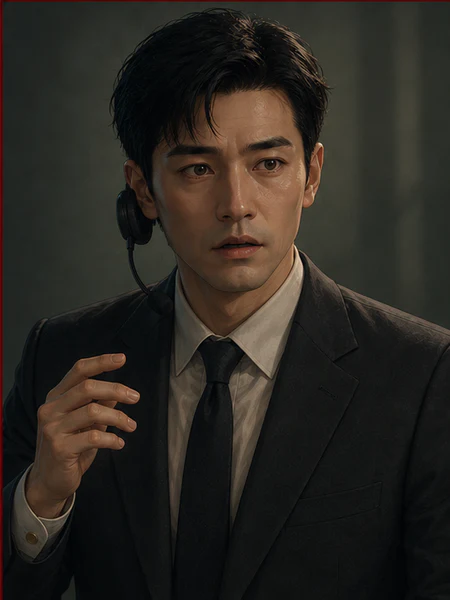
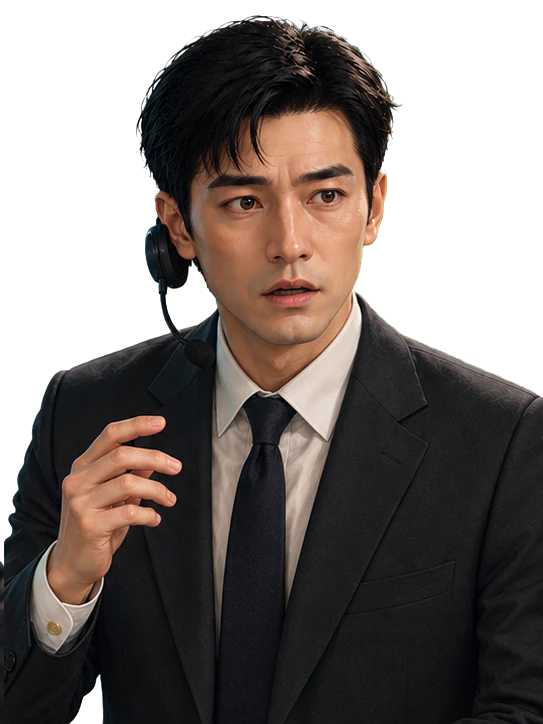
Add transparent cast and cinematic ending PVs

diff --git a/src/components/RevelationPanel.tsx b/src/components/RevelationPanel.tsx
@@ -1,4 +1,6 @@
-import { ChevronRight, RotateCcw, X } from 'lucide-react'
+import { ChevronRight, Eye, RotateCcw, ScanSearch, X } from 'lucide-react'
+import { useEffect, useState } from 'react'
+import { createPortal } from 'react-dom'
 import type { EndingId, PlayerMemory } from '../game/types'
 
 interface RevelationPanelProps {
@@ -11,108 +13,105 @@ interface RevelationPanelProps {
   onOpenEvidence: () => void
   onChooseEnding: (endingId: EndingId) => void
   onReset: () => void
+  renderEndingPv?: boolean
 }
 
-const ENDINGS: Record<EndingId, { label: string; detail: string; title: string; result: string }> = {
+const ENDING_IMAGES: Record<EndingId, string> = {
+  preserve: new URL('../../art/runtime/endings/preserve.webp', import.meta.url).href,
+  answer: new URL('../../art/runtime/endings/answer.webp', import.meta.url).href,
+  erase: new URL('../../art/runtime/endings/erase.webp', import.meta.url).href,
+  broadcast: new URL('../../art/runtime/endings/broadcast.webp', import.meta.url).href,
+  follow: new URL('../../art/runtime/endings/follow.webp', import.meta.url).href,
+}
+
+const ENDINGS: Record<EndingId, { label: string; detail: string; title: string; result: string; focus: string }> = {
   preserve: {
-    label: '复制并封存母带',
-    detail: '让至少两个人同时记住苏晚。',
-    title: '结局 · 守片人',
-    result: '你把第九机位复制到一卷不联网的磁带。第二天，白礁酒店的全部监控都恢复正常——只有你的副本里，苏晚仍在每个整点回头。',
+    label: '复制并封存母带', detail: '让至少两个人同时记住苏晚。', title: '结局 · 守片人', focus: '检查唯一亮着的监视器',
+    result: '你把第九机位复制到一卷不联网的磁带。第二天，所有监控恢复正常——只有你的副本里，苏晚仍在每个整点回头。',
   },
   answer: {
-    label: '回应未知信号',
-    detail: '告诉她：我还记得你。',
-    title: '结局 · 第十秒',
-    result: '你对着没有麦克风的机位说出她的名字。时间码第一次越过 23:47:10，画面中的空椅上多了一个背对镜头的人。那个人穿着你的外套。',
+    label: '回应未知信号', detail: '告诉她：我还记得你。', title: '结局 · 第十秒', focus: '确认空椅上的人',
+    result: '时间码第一次越过 23:47:10。画面中的空椅上多了一个背对镜头的人——那个人穿着你的外套。',
   },
   erase: {
-    label: '删除自己的记录',
-    detail: '切断第九机位最后的见证人。',
-    title: '结局 · 空机位',
-    result: '文件删除成功。八台摄影机里苏晚重新出现，婚礼照常继续；但所有合影都少了一位摄影师。系统把你的名字标记为“从未到场”。',
+    label: '删除自己的记录', detail: '切断第九机位最后的见证人。', title: '结局 · 空机位', focus: '按下无人值守的快门',
+    result: '苏晚重新出现在合影里；但相机后再也没有摄影师。系统把你的名字标记为“从未到场”。',
   },
   broadcast: {
-    label: '接回婚礼直播',
-    detail: '把三组矛盾同时投向所有来宾。',
-    title: '隐藏结局 · 两场婚礼',
-    result: '你把第九路信号切回宴会厅。凌晨零点，所有宾客同时记起两场互不相同的婚礼：一场苏晚失踪，一场路野从未出生。白礁酒店再也无法只删除一个见证人。',
+    label: '接回婚礼直播', detail: '把三组矛盾同时投向所有来宾。', title: '隐藏结局 · 两场婚礼', focus: '让两场婚礼同时显影',
+    result: '所有宾客同时记起两场互不相同的婚礼。白礁酒店再也无法只删除一个见证人。',
   },
   follow: {
-    label: '穿过反射里的门',
-    detail: '沿着七岁时留下的脚印进入零层。',
-    title: '隐藏结局 · 归还姓名',
-    result: '你没有回应苏晚，而是叫出她十二年前登记时使用的名字。镜中门缝打开，七岁的你站在零层尽头。苏晚把黑卡交还给他，然后第一次从第九机位之外走进清晨。',
+    label: '穿过反射里的门', detail: '沿七岁时留下的脚印进入零层。', title: '隐藏结局 · 归还姓名', focus: '接过十二年前的黑卡',
+    result: '镜中门缝打开。苏晚把黑卡交还给七岁的你，然后第一次从第九机位之外走进清晨。',
   },
 }
 
-export function RevelationPanel({
-  open,
-  mistakes,
-  linkCount,
-  memory,
-  ending,
-  onDismiss,
-  onOpenEvidence,
-  onChooseEnding,
-  onReset,
-}: RevelationPanelProps) {
+export function RevelationPanel({ open, mistakes, linkCount, memory, ending, onDismiss, onOpenEvidence, onChooseEnding, onReset, renderEndingPv = false }: RevelationPanelProps) {
+  const [wide, setWide] = useState(false)
+  const [examined, setExamined] = useState(false)
+  useEffect(() => { setWide(false); setExamined(false) }, [ending])
+
   const rating = mistakes === 0 && linkCount === 3 ? 'S' : mistakes <= 3 ? 'A' : mistakes <= 7 ? 'B' : 'C'
   const memoryLine = memory?.approach === 'intervene'
-    ? '你当时没能推开那扇门，因为门的另一侧比你慢了十二年。'
-    : '你当时选择继续拍摄，所以第九机位终于也看见了你。'
+    ? '你没能推开那扇门，因为门的另一侧比你慢了十二年。'
+    : '你选择继续拍摄，所以第九机位终于也看见了你。'
   const endingLock = (id: EndingId) => {
     if (id === 'broadcast' && (linkCount < 3 || mistakes > 2)) return '需要解封 3/3 档案，且误判不超过 2 次'
     if (id === 'follow' && (memory?.identity !== 'remember' || memory.focus !== 'steady')) return '需要相信旧记忆，并在服务门前稳住镜头'
     return null
   }
-  if (!open) {
-    return (
-      <button className="revelation-reopen" type="button" onClick={onDismiss}>
-        查看第九机位解读
-      </button>
-    )
-  }
+  if (!open) return <button className="revelation-reopen" type="button" onClick={onDismiss}>查看第九机位解读</button>
 
-  return (
-    <aside className="revelation-panel" aria-label="第九机位解读">
-      <button className="revelation-close" type="button" onClick={onDismiss} aria-label="收起解读">
-        <X size={15} />
-      </button>
-      <span>回放源异常 · 十二年前 · 档案 {linkCount}/3 · 观察评级 {rating}</span>
-      <strong>你解开的不是一段缺失监控，<br />而是一层被覆盖的时间。</strong>
-      <p>
-        同一间宴会厅。所有人举手通过了一项未出现在婚礼档案里的表决；
-        中央留给证人的椅子是空的。
-      </p>
-      <blockquote>苏晚不是今晚才第一次“消失”。</blockquote>
-      <p className="revelation-memory">{memoryLine}</p>
-      {linkCount < 3 && <p className="revelation-missing">仍有一页白礁档案未解封。完整联结全部五条观察可获得 S 评级。</p>}
-      {!ending ? (
-        <section className="ending-decision" aria-labelledby="ending-question">
-          <span>FINAL CUT / 最后的选择</span>
-          <strong id="ending-question">你要如何处理第九机位？</strong>
-          <div>
-            {(Object.keys(ENDINGS) as EndingId[]).map((id) => {
-              const lock = endingLock(id)
-              return (
-                <button type="button" key={id} onClick={() => onChooseEnding(id)} disabled={Boolean(lock)}>
-                  <b>{ENDINGS[id].label}</b><small>{lock ?? ENDINGS[id].detail}</small>
-                </button>
-              )
-            })}
-          </div>
-        </section>
-      ) : (
-        <section className="ending-resolution" aria-live="polite">
-          <span>{ENDINGS[ending].title}</span>
-          <p>{ENDINGS[ending].result}</p>
+  if (ending) {
+    if (!renderEndingPv) return null
+    const endingData = ENDINGS[ending]
+    return createPortal(
+      <section className={`ending-pv ending-${ending}${wide ? ' is-wide' : ''}${examined ? ' is-examined' : ''}`} aria-live="polite">
+        <figure>
+          <img src={ENDING_IMAGES[ending]} alt={endingData.title} width="1918" height="820" />
+          <div className="ending-pv-shutter" aria-hidden="true" />
+        </figure>
+        {!wide ? (
+          <button className="ending-pv-expand" type="button" onClick={() => setWide(true)}>
+            <Eye size={17} /><span>拉开镜头</span><i aria-hidden="true" />
+          </button>
+        ) : (
+          <button className="ending-pv-hotspot" type="button" onClick={() => setExamined(true)} aria-label={endingData.focus}>
+            <ScanSearch size={22} /><span>{endingData.focus}</span>
+          </button>
+        )}
+        <div className="ending-pv-caption">
+          <span>FINAL CUT / {String((Object.keys(ENDINGS) as EndingId[]).indexOf(ending) + 1).padStart(2, '0')}</span>
+          <strong>{endingData.title}</strong>
+          <p>{endingData.result}</p>
           <div>
             <button type="button" onClick={onOpenEvidence}>对照证据 <ChevronRight size={13} /></button>
             <button type="button" onClick={onReset}><RotateCcw size={13} />重新调查</button>
           </div>
-        </section>
-      )}
+        </div>
+      </section>
+    , document.body)
+  }
+
+  return (
+    <aside className="revelation-panel" aria-label="第九机位解读">
+      <button className="revelation-close" type="button" onClick={onDismiss} aria-label="收起解读"><X size={15} /></button>
+      <span>回放源异常 · 十二年前 · 档案 {linkCount}/3 · 观察评级 {rating}</span>
+      <strong>你解开的不是一段缺失监控，<br />而是一层被覆盖的时间。</strong>
+      <blockquote>苏晚不是今晚才第一次“消失”。</blockquote>
+      <p className="revelation-memory">{memoryLine}</p>
+      {linkCount < 3 && <p className="revelation-missing">仍有一项白礁档案未解封。完整联结可获得 S 评级。</p>}
+      <section className="ending-decision" aria-labelledby="ending-question">
+        <span>FINAL CUT / 最后的选择</span>
+        <strong id="ending-question">你要如何处理第九机位？</strong>
+        <div>
+          {(Object.keys(ENDINGS) as EndingId[]).map((id) => {
+            const lock = endingLock(id)
+            return <button type="button" key={id} onClick={() => onChooseEnding(id)} disabled={Boolean(lock)}><b>{ENDINGS[id].label}</b><small>{lock ?? ENDINGS[id].detail}</small></button>
+          })}
+        </div>
+      </section>
     </aside>
   )
 }

diff --git a/src/styles.css b/src/styles.css
@@ -2976,14 +2976,14 @@ input:focus-visible {
   position: relative;
   z-index: 2;
   align-self: stretch;
-  overflow: hidden;
+  overflow: visible;
   margin: 0 -1px 0 0;
   pointer-events: none;
   filter: drop-shadow(16px 9px 25px rgba(0,0,0,.62));
   animation: portrait-enter 360ms ease-out both;
 }
-.character-dialogue > figure::after { content: ''; position: absolute; inset: 0; background: linear-gradient(180deg, transparent 60%, rgba(2,5,6,.94)); pointer-events: none; }
-.character-dialogue > figure img { width: 100%; height: 100%; object-fit: cover; object-position: center top; }
+.character-dialogue > figure::after { content: ''; position: absolute; left: -8%; right: -8%; bottom: -1px; height: 34%; background: linear-gradient(180deg, transparent, rgba(2,5,6,.9)); pointer-events: none; }
+.character-dialogue > figure img { width: 100%; height: 100%; object-fit: contain; object-position: center bottom; }
 .character-dialogue.is-warning > figure { animation: portrait-warning 520ms cubic-bezier(.2,.8,.2,1) both; }
 .character-dialogue.is-afraid > figure { animation: portrait-afraid 280ms steps(2,end) both; }
 .character-dialogue.is-remember > figure { animation: portrait-remember 700ms ease-out both; }
@@ -3069,6 +3069,117 @@ input:focus-visible {
 }
 
 /* Evidence linking and archive layer */
+.ending-pv {
+  position: fixed;
+  z-index: 80;
+  inset: 0;
+  overflow: hidden;
+  isolation: isolate;
+  background: #010405;
+  color: var(--ivory-100);
+}
+.ending-pv figure { position: absolute; inset: 0; margin: 0; overflow: hidden; }
+.ending-pv figure::after {
+  content: '';
+  position: absolute;
+  inset: 0;
+  background: linear-gradient(90deg, rgba(0,0,0,.18), transparent 48%, rgba(0,0,0,.36)), linear-gradient(0deg, rgba(0,0,0,.78), transparent 46%);
+  pointer-events: none;
+}
+.ending-pv figure img {
+  width: 100%;
+  height: 100%;
+  object-fit: cover;
+  transform: scale(1.72);
+  filter: brightness(.72) saturate(.78);
+  transition: transform 1.55s cubic-bezier(.16,.78,.16,1), filter 1.2s ease;
+}
+.ending-pv.ending-preserve figure img { transform-origin: 64% 61%; }
+.ending-pv.ending-answer figure img { transform-origin: 50% 60%; }
+.ending-pv.ending-erase figure img { transform-origin: 61% 58%; }
+.ending-pv.ending-broadcast figure img { transform-origin: 54% 51%; }
+.ending-pv.ending-follow figure img { transform-origin: 49% 50%; }
+.ending-pv.is-wide figure img { transform: scale(1); filter: brightness(.94) saturate(.92); }
+.ending-pv-shutter {
+  position: absolute;
+  inset: 0;
+  background: #010405;
+  clip-path: inset(0 0 0 0);
+  animation: ending-shutter 1.15s cubic-bezier(.65,0,.25,1) .12s both;
+}
+@keyframes ending-shutter { to { clip-path: inset(0 50% 0 50%); } }
+.ending-pv-expand {
+  position: absolute;
+  z-index: 3;
+  left: 50%;
+  top: 50%;
+  display: grid;
+  place-items: center;
+  gap: 8px;
+  width: 128px;
+  height: 128px;
+  border: 1px solid rgba(238,231,207,.56);
+  border-radius: 50%;
+  color: #fff8df;
+  background: rgba(1,5,6,.42);
+  backdrop-filter: blur(5px);
+  transform: translate(-50%,-50%);
+  cursor: pointer;
+  animation: ending-focus-in .8s ease 1.05s both;
+}
+.ending-pv-expand span { font-family: var(--mono); font-size: 10px; letter-spacing: .14em; }
+.ending-pv-expand i { position: absolute; inset: -12px; border: 1px solid rgba(217,72,67,.42); border-radius: 50%; animation: ending-ring 1.8s ease-out infinite; }
+@keyframes ending-focus-in { from { opacity: 0; transform: translate(-50%,-50%) scale(.72); } }
+@keyframes ending-ring { to { opacity: 0; transform: scale(1.34); } }
+.ending-pv-hotspot {
+  position: absolute;
+  z-index: 3;
+  left: 50%;
+  top: 47%;
+  display: flex;
+  align-items: center;
+  gap: 8px;
+  border: 1px solid rgba(238,231,207,.62);
+  padding: 10px 13px;
+  color: #fff8df;
+  background: rgba(2,6,7,.62);
+  backdrop-filter: blur(5px);
+  transform: translate(-50%,-50%);
+  cursor: pointer;
+  animation: revelation-in .55s ease 1.15s both;
+}
+.ending-pv-hotspot::before { content: ''; position: absolute; inset: -9px; border: 1px solid rgba(217,72,67,.36); }
+.ending-pv-hotspot span { font-family: var(--mono); font-size: 9px; letter-spacing: .08em; }
+.ending-pv.is-examined .ending-pv-hotspot { color: var(--signal-red); border-color: var(--signal-red); }
+.ending-pv-caption {
+  position: absolute;
+  z-index: 4;
+  left: clamp(22px,5vw,76px);
+  right: clamp(22px,5vw,76px);
+  bottom: clamp(22px,5vh,52px);
+  pointer-events: none;
+}
+.ending-pv-caption > span { color: var(--signal-red); font-family: var(--mono); font-size: 9px; letter-spacing: .2em; }
+.ending-pv-caption > strong { display: block; margin-top: 6px; font-family: var(--display); font-size: clamp(30px,5vw,72px); font-weight: 400; text-shadow: 0 2px 30px #000; }
+.ending-pv-caption > p { max-width: 560px; margin: 8px 0 0; color: rgba(255,248,223,.82); font-size: 12px; line-height: 1.7; opacity: 0; transform: translateY(8px); transition: opacity .55s ease, transform .55s ease; }
+.ending-pv.is-examined .ending-pv-caption > p { opacity: 1; transform: none; }
+.ending-pv-caption > div { display: flex; gap: 8px; margin-top: 13px; opacity: 0; transform: translateY(8px); transition: opacity .55s ease .16s, transform .55s ease .16s; pointer-events: none; }
+.ending-pv.is-examined .ending-pv-caption > div { opacity: 1; transform: none; pointer-events: auto; }
+.ending-pv-caption button { display: inline-flex; align-items: center; gap: 5px; min-height: 36px; border: 1px solid rgba(238,231,207,.36); padding: 0 12px; color: #fff8df; background: rgba(2,6,7,.72); cursor: pointer; }
+@media (max-width: 760px) {
+  .ending-pv figure img { transform: scale(2.25); }
+  .ending-pv.is-wide figure img { transform: scale(1.25); }
+  .ending-pv-expand { width: 104px; height: 104px; }
+  .ending-pv-caption { left: 16px; right: 16px; bottom: 22px; }
+  .ending-pv-caption > strong { font-size: clamp(28px,10vw,44px); }
+  .ending-pv-caption > p { font-size: 11px; }
+}
+@media (prefers-reduced-motion: reduce) {
+  .ending-pv-shutter { animation: none; clip-path: inset(0 50%); }
+  .ending-pv figure img, .ending-pv-caption > p, .ending-pv-caption > div { transition-duration: .01ms; }
+  .ending-pv-expand, .ending-pv-expand i, .ending-pv-hotspot { animation: none; }
+}
+
 .desktop-revelation { display: contents; }
 .mobile-revelation { display: none; }
 

diff --git a/e2e/vertical-slice.spec.ts b/e2e/vertical-slice.spec.ts
@@ -191,8 +191,11 @@ test('requires four observations and a player deduction before CAM-09 unlocks', 
   await expect(desktopRevelation).toContainText('观察评级 A')
   await expect(desktopRevelation).toContainText('第九机位终于也看见了你')
   await page.getByRole('button', { name: /回应未知信号/ }).click()
-  await expect(page.locator('.desktop-revelation .ending-resolution')).toContainText('结局 · 第十秒')
-  await expect(page.locator('.desktop-revelation .ending-resolution')).toContainText('画面中的空椅')
+  const endingPv = page.locator('.ending-pv')
+  await expect(endingPv).toContainText('结局 · 第十秒')
+  await page.getByRole('button', { name: '拉开镜头' }).click()
+  await page.getByRole('button', { name: '确认空椅上的人' }).click()
+  await expect(endingPv).toContainText('画面中的空椅')
 })
 
 test('rewards optional exploration with a third world archive fragment', async ({ page }) => {

diff --git a/e2e/visual-review.spec.ts b/e2e/visual-review.spec.ts
@@ -157,10 +157,16 @@ test('captures the exploration-first journey', async ({ page }) => {
   await page.waitForTimeout(350)
   await shot(page, 'v2-camera-nine.png')
   await page.getByRole('button', { name: /回应未知信号/ }).click()
-  await shot(page, 'v3-ending-answer.png')
+  await page.waitForTimeout(1300)
+  await shot(page, 'v9-ending-answer-closeup.png')
+  await page.getByRole('button', { name: '拉开镜头' }).click()
+  await page.waitForTimeout(1700)
+  await shot(page, 'v9-ending-answer-wide.png')
+  await page.getByRole('button', { name: '确认空椅上的人' }).click()
+  await shot(page, 'v9-ending-answer-revealed.png')
 
   await page.setViewportSize({ width: 390, height: 844 })
-  await shot(page, 'v3-mobile-ending-answer.png')
+  await shot(page, 'v9-mobile-ending-answer.png')
   await page.reload()
   await shot(page, 'v2-mobile-prologue.png')
   await finishPrologue(page)

diff --git a/src/App.tsx b/src/App.tsx
@@ -492,6 +492,7 @@ function App() {
                 onOpenEvidence={openEvidence}
                 onChooseEnding={chooseEnding}
                 onReset={resetReview}
+                renderEndingPv
               />
             </div>
           )}

diff --git a/art/prompts/013-ending-pv-and-cutouts.md b/art/prompts/013-ending-pv-and-cutouts.md
@@ -1,0 +1,23 @@
+# 013 · Transparent dialogue cutouts and five ending PVs
+
+All assets use GPT Image 2 host-native generation. Existing character sheets and runtime stills are identity/style references only.
+
+## Dialogue cutouts
+
+- Preserve Su Wan and Zhou Chen's faces, clothing, age, hairstyle, framing and four emotional performances exactly.
+- Output a clean 2×2 contact sheet, one isolated waist-up character per quadrant, flat solid `#00ff00` chroma-key background in every quadrant.
+- No floor, cast shadow, reflected light, scenery, text, border or panel divider. Hair silhouette must remain clean and separated.
+
+## Ending PV direction
+
+- 21:9 live-action Chinese mystery feature-film still, late-1990s/early-2000s coastal hotel, deep teal night and tungsten amber practicals, wet glass, restrained red signal accents, subtle analog grain.
+- No typography, logos, subtitles, watermark, UI, collage or split screen. One decisive cinematic image per ending with clear negative space for game UI.
+- `preserve / 守片人`: Lu Ye alone in a dark editing room, holding an unnetworked magnetic tape; Su Wan appears only inside a small CRT reflection at the exact hour.
+- `answer / 第十秒`: camera pushes past 23:47:10; an empty banquet chair now holds a back-facing figure wearing Lu Ye's coat while Su Wan watches from the far aisle.
+- `erase / 空机位`: ordinary wedding group photograph composition, an unmistakable empty camera position in foreground, everyone looks past the missing photographer.
+- `broadcast / 两场婚礼`: banquet hall at midnight, all CRT monitors and guests simultaneously reflect two incompatible weddings, reality doubled through glass without using split-screen layout.
+- `follow / 归还姓名`: zero-floor corridor opens through a narrow mirror door; seven-year-old Lu Ye waits at the far end while Su Wan returns the black access card.
+
+## Shared constraints
+
+Keep the approved visual DNA: original Chinese characters, cinematic realism with restrained painterly finish, plausible anatomy and architecture, no recognizable copyrighted character or copied composition.
